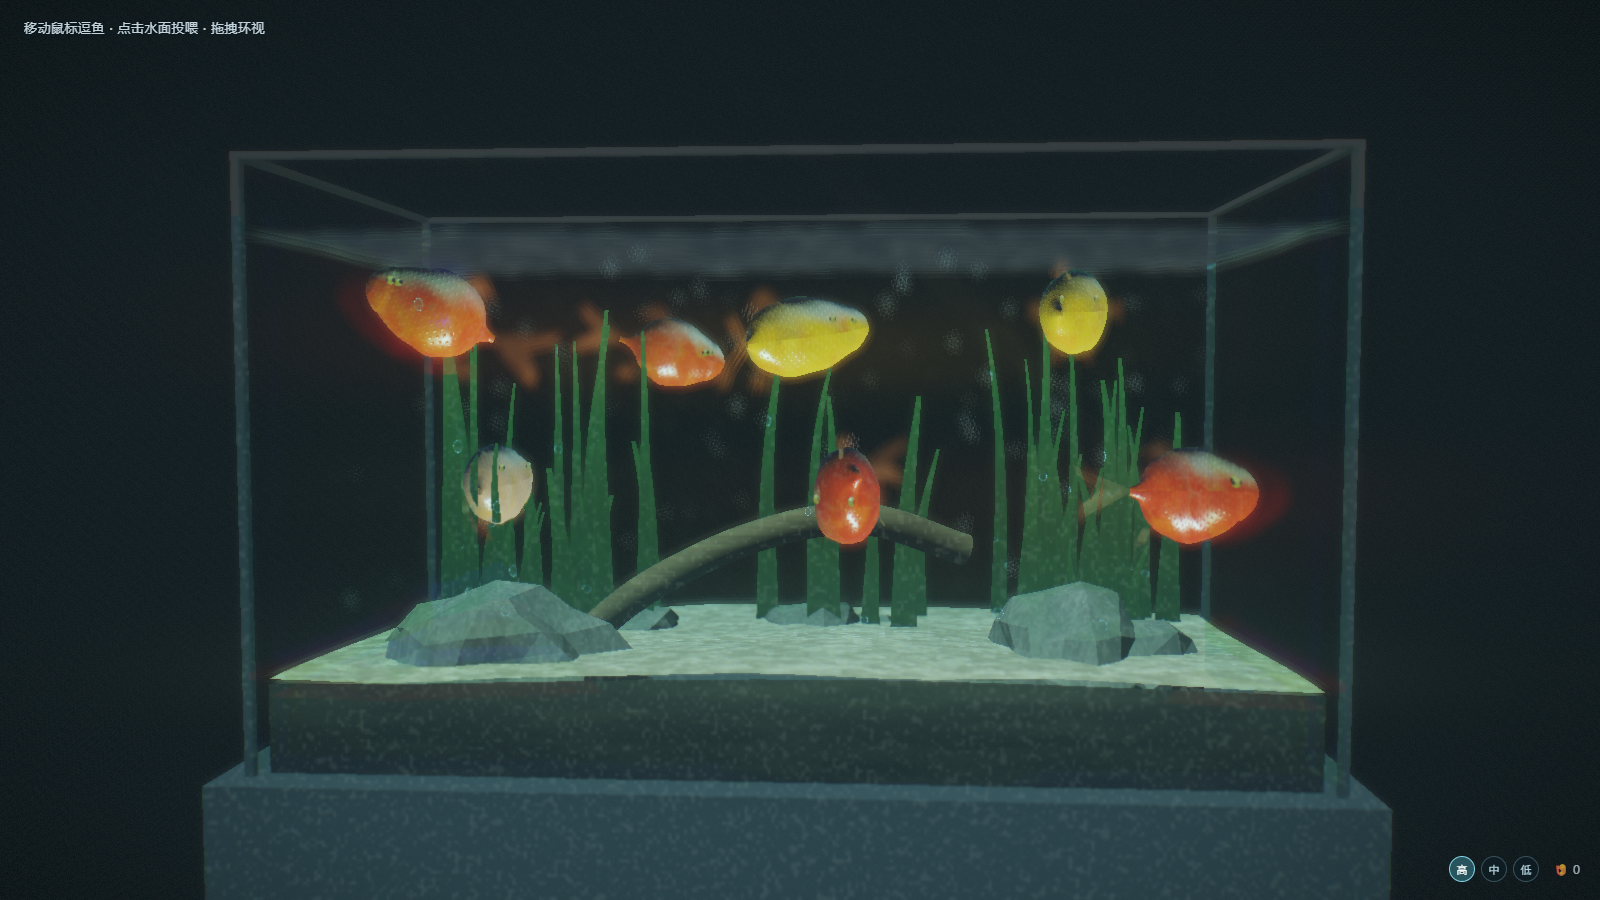
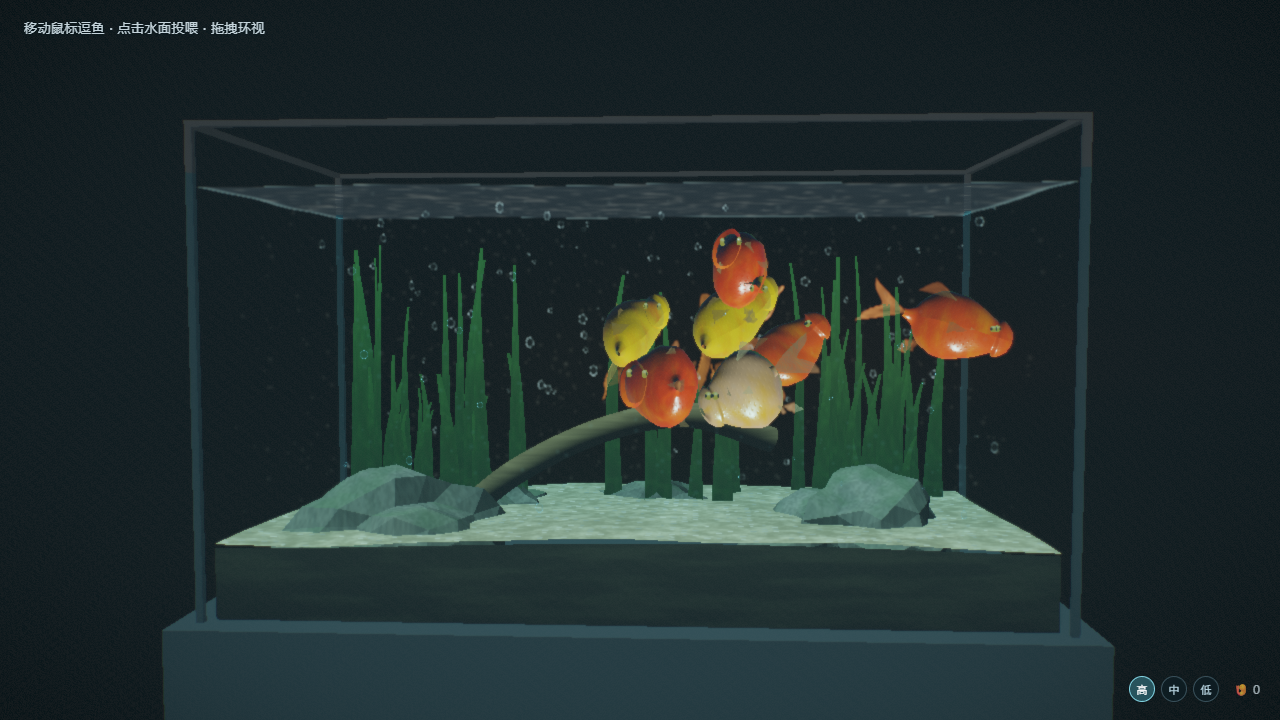
fix: shadowing artifacts, screen grain, twitchy turns and blurred tiers
Five reported issues, each traced to a specific cause:

- Eye and fin showing through the body: the eye sphere was centred on the
  skin and z-fought the head (now sunk inside with polygon offset), and the
  glass overlay sampled the scene three times at per-channel offsets, which
  ghosted every subject. Flat glass barely refracts, so the offset is now a
  single tiny tap.
- Tank grain: a per-pixel noise term in the media pass, active at every
  quality tier. Removed; grain, dust and sand speckle reduced too.
- Fins are now opaque enough to occlude instead of letting the far side show.
- Twitchy turning: the desired direction was lerped straight into velocity,
  so opposing separation/curiosity/wall forces flipped the heading every
  frame. A capped angular turn rate now produces wide arcs.
- Higher tier looked blurrier: DOF focused at the tank centre with a 9px
  radius, and bloom/ray thresholds were low enough to glaze everything.
  Focus pushed to the background, radius 1.6, bloom 0.10, rays 0.20.

Body profile rewritten for fish-like proportions; the belly no longer wraps
over the head; scales reduced to a sheen. Bounds relaxed so seven fish are
not jammed against the floor.

diff --git a/src/fish.ts b/src/fish.ts
@@ -56,20 +56,20 @@ function bodyProfile(z: number): number {
   // Egg-shaped goldfish body: deep behind the head, tapering hard into the
   // caudal peduncle, with a short rounded snout.
   const t = THREE.MathUtils.clamp((z + 0.5) / 1.0, 0, 1);
-  if (t > 0.86) {
-    // snout: quick but smooth taper to a small mouth
-    const k = (t - 0.86) / 0.14;
-    return Math.sqrt(Math.max(0, 1 - k * k)) * 0.52 + 0.10;
+  if (t < 0.14) {
+    // caudal peduncle: the narrow waist that makes a fish read as a fish
+    const k = t / 0.14;
+    return 0.13 + 0.22 * k * k;
   }
-  if (t > 0.16) {
-    // widest just behind the gill cover, gently narrowing forward
-    const k = (t - 0.16) / 0.70;
-    const peak = Math.sin(Math.pow(k, 0.75) * Math.PI * 0.92);
-    return 0.44 + 0.58 * peak;
+  if (t < 0.86) {
+    // main body: rises quickly behind the head, falls gently to the peduncle
+    const k = (t - 0.14) / 0.72;
+    const peak = Math.sin(Math.pow(k, 0.70) * Math.PI * 0.95);
+    return 0.35 + 0.67 * peak;
   }
-  // caudal peduncle: thin, then a small flare where the tail root begins
-  const k = t / 0.16;
-  return 0.10 + 0.34 * k * k;
+  // snout: short and blunt, never a spike
+  const k = (t - 0.86) / 0.14;
+  return Math.sqrt(Math.max(0, 1 - k * k)) * 0.46 + 0.14;
 }
 
 /**
@@ -82,8 +82,8 @@ function surfaceHalfWidth(style: FishStyle, z: number, y: number): number {
   const t = u * 2 - 1;
   const prof = bodyProfile(u - 0.5) * style.girth;
   const headK = THREE.MathUtils.smoothstep(t, 0.62, 1.0);
-  const halfY = prof * 0.86 * (1.0 - headK * 0.30);
-  const rx = prof * 0.70 * (1.0 - headK * 0.28);
+  const halfY = prof * 0.86 * (1.0 - headK * 0.16);
+  const rx = prof * 0.70 * (1.0 - headK * 0.20);
   const k = THREE.MathUtils.clamp(Math.abs(y) / Math.max(1e-4, halfY), 0, 0.999);
   return rx * Math.sqrt(1 - k * k);
 }
@@ -111,10 +111,11 @@ function buildBodyGeometry(style: FishStyle, segs = 46, radial = 22): THREE.Buff
       // dorsal ridge + belly curve
       y += Math.max(0, sa) * prof * 0.14;
       y -= Math.max(0, -sa) * prof * 0.18;
-      // head narrows toward the snout and rounds off
+      // head keeps most of its depth: a shrunken head is what made these read
+      // as coins rather than fish
       const headK = THREE.MathUtils.smoothstep(t, 0.62, 1.0);
-      y *= 1.0 - headK * 0.30;
-      x *= 1.0 - headK * 0.28;
+      y *= 1.0 - headK * 0.16;
+      x *= 1.0 - headK * 0.20;
       // mouth indentation
       const mouth = THREE.MathUtils.smoothstep(t, 0.90, 1.0);
       y -= mouth * Math.abs(Math.cos(a)) * prof * 0.10;
@@ -320,6 +321,7 @@ export function makeFish(style: FishStyle, shared: Shared): {
       uniform vec3 uBelly;
       uniform float uWen;
       uniform float uMouth;
+      uniform float uLen;
       varying vec3 vWorld;
       varying vec3 vNormal;
       varying vec3 vLocalNormal;
@@ -358,16 +360,22 @@ export function makeFish(style: FishStyle, shared: Shared): {
         vec3 col = mix(uHueA, uHueB, smoothstep(0.25, 0.85, blotch + blotch2 * 0.35));
         col = mix(col, col * vec3(1.06, 0.92, 0.86), smoothstep(0.5, 0.9, along) * 0.35);
 
-        // the white belly is a narrow underside band, not half the fish
-        float bellyMask = smoothstep(-0.10, -0.62, up) * smoothstep(0.90, 0.30, along);
-        col = mix(col, uBelly, bellyMask * 0.88);
+        // the white belly is an underside band; the normal test alone let it
+        // wrap over the top of the head because head normals point sideways
+        // there, so it is also gated on being low on the body
+        float lowish = smoothstep(0.15, -0.55, vLocal.y / max(0.001, uLen * 0.16));
+        float bellyMask = smoothstep(-0.10, -0.62, up) * lowish * smoothstep(0.92, 0.35, along);
+        col = mix(col, uBelly, bellyMask * 0.85);
 
-        // ---- scale lattice: very low contrast, it is a sheen not a pattern
+        // ---- scale lattice: a sheen, not a pattern. High-frequency cells at
+        // this scale alias into a dot grid, so keep them very low contrast and
+        // fade them out on the head.
         vec2 cell;
         float sm = scaleMask(vec2(uv.x, uv.y * 1.02), cell);
+        sm *= smoothstep(0.05, 0.30, along);      // no scales on the snout
         float scaleHue = hash11(cell.x * 7.31 + cell.y * 3.17);
-        col *= 0.965 + 0.055 * sm;
-        col = mix(col, col * vec3(1.03, 0.995, 0.955), sm * 0.22 * scaleHue);
+        col *= 0.985 + 0.024 * sm;
+        col = mix(col, col * vec3(1.015, 1.0, 0.985), sm * 0.12 * scaleHue);
 
         // ---- oranda wen (bumpy growth on head)
         float head = smoothstep(0.62, 0.95, along);
@@ -379,7 +387,7 @@ export function makeFish(style: FishStyle, shared: Shared): {
         // tangent frame: local x should map to around, local y across
         vec3 T = normalize(cross(N, vec3(0.0, 1.0, 0.0)) + 1e-4);
         vec3 B = normalize(cross(N, T));
-        N = normalize(N + (T * pert.x + B * pert.y) * 0.11 + normalize(vLocal) * wen * 0.4);
+        N = normalize(N + (T * pert.x + B * pert.y) * 0.055 + normalize(vLocal) * wen * 0.4);
 
         // ---- lighting
         vec3 V = normalize(cameraPosition - vWorld);
@@ -469,10 +477,13 @@ export function makeFish(style: FishStyle, shared: Shared): {
         col += uFinTint * fres * 0.22;
         col += vec3(1.0) * pow(max(0.0, dot(reflect(-L, N), V)), 60.0) * 0.10;
         col = min(col, vec3(1.6));
-        float a = mem * (0.30 + 0.30 * fres + trans * 0.12);
-        a *= smoothstep(1.0, 0.93, uv.y);        // fade at the far tip
-        a *= 0.35 + 0.65 * smoothstep(0.0, 0.28, uv.y);  // rooted edge is solid
-        gl_FragColor = vec4(col, clamp(a, 0.0, 0.90));
+        // Fins are thin membranes, but a *very* transparent fin lets the body
+        // and the far-side fins show through, which reads as the fin being
+        // "seen through the model". Keep them solid enough to occlude.
+        float a = mem * (0.62 + 0.22 * fres + trans * 0.10);
+        a *= smoothstep(1.0, 0.955, uv.y);       // fade only at the far tip
+        a *= 0.55 + 0.45 * smoothstep(0.0, 0.22, uv.y);  // rooted edge is solid
+        gl_FragColor = vec4(col, clamp(a, 0.0, 0.95));
       }
     `,
   });
@@ -545,6 +556,11 @@ export function makeFish(style: FishStyle, shared: Shared): {
   void pupilGeo;
   const eyeMat = new THREE.ShaderMaterial({
     uniforms,
+    // The lens sits where the skin is, so without a depth bias the two
+    // surfaces z-fight and the eye appears to bleed through the head.
+    polygonOffset: true,
+    polygonOffsetFactor: -4,
+    polygonOffsetUnits: -4,
     vertexShader: 'varying vec3 vN; varying vec3 vW; void main(){ vN = normalize(mat3(modelMatrix) * normal); vW = (modelMatrix*vec4(position,1.0)).xyz; gl_Position = projectionMatrix * viewMatrix * vec4(vW,1.0); }',
     fragmentShader: /* glsl */ `
       ${ENV}
@@ -573,9 +589,10 @@ export function makeFish(style: FishStyle, shared: Shared): {
     group.add(eye);
     return {
       mesh: eye,
-      // sit the lens on the actual skin, found from the body cross-section,
-      // and let it bulge slightly outward like a real eye
-      x: s * (surfaceHalfWidth(style, style.length * 0.33, style.girth * 0.26) + style.girth * 0.015),
+      // Seat the sphere so its centre is *inside* the head and only a lens
+      // cap protrudes: a centre placed on the skin leaves half the ball
+      // floating and half buried, which reads as a hole in the body.
+      x: s * (surfaceHalfWidth(style, style.length * 0.33, style.girth * 0.26) - style.girth * 0.045),
       y: style.girth * 0.26,
       z: style.length * 0.33,
     };

diff --git a/src/behavior.ts b/src/behavior.ts
@@ -44,8 +44,10 @@ export class School {
 
   add(species: FishSpecies, hunger: number, length = 1.1) {
     const comet = species === 'comet';
-    // half body plus the caudal fin trailing behind the position point
-    const reach = length * (comet ? 0.95 : 0.80);
+    // Half-length plus the tail that trails behind, but NOT the full body
+    // diagonal: reserving that much left a slab only 1.9 deep for seven fish,
+    // which crowded them into the floor and made them jitter.
+    const reach = length * (comet ? 0.62 : 0.56);
     const bx = TANK.hw - reach - 0.18;
     const bz = TANK.hd - reach - 0.18;
     this.fish.push({
@@ -117,9 +119,11 @@ export class School {
         const o = this.fish[j];
         const dv = f.pos.clone().sub(o.pos);
         const dist = dv.length();
-        const minD = 1.9 * f.size;
+        // just over a body length: enough to stop overlap without the whole
+        // school shoving itself against the glass
+        const minD = 1.15 * f.size;
         if (dist < minD && dist > 1e-4) {
-          desired.addScaledVector(dv.normalize(), (1 - dist / minD) * 3.2);
+          desired.addScaledVector(dv.normalize(), (1 - dist / minD) * 2.4);
         }
       }
 
@@ -205,7 +209,34 @@ export class School {
       // slow, heavy water feel: less speed, gentler acceleration
       const baseSpeed = (0.62 + 0.38 * (1 - hungerK * 0.5)) * (f.species === 'comet' ? 1.20 : 1.0);
       const speedTarget = baseSpeed * (1 - f.focus * 0.55) * (1 + f.fear * 1.5);
-      f.vel.lerp(desired.multiplyScalar(speedTarget), 1 - Math.exp(-dt * 1.15));
+
+      // Steering authority is a turning rate, not a velocity lerp. Feeding the
+      // raw per-frame desired direction straight into velocity made the fish
+      // twitch back and forth whenever separation and curiosity disagreed;
+      // limiting how fast the heading may change forces wide, fish-like arcs.
+      const targetVel = desired.clone().multiplyScalar(speedTarget);
+      const curSpeed = f.vel.length();
+      if (curSpeed < 1e-4) {
+        f.vel.copy(targetVel);
+      } else {
+        const curDir = f.vel.clone().divideScalar(curSpeed);
+        const tgtDir = targetVel.clone().normalize();
+        const dot = THREE.MathUtils.clamp(curDir.dot(tgtDir), -1, 1);
+        const angle = Math.acos(dot);
+        const maxTurn = (1.6 + f.fear * 3.0) * dt;   // rad/s
+        let newDir: THREE.Vector3;
+        if (angle <= maxTurn || angle < 1e-4) {
+          newDir = tgtDir;
+        } else {
+          const axis = new THREE.Vector3().crossVectors(curDir, tgtDir);
+          if (axis.lengthSq() < 1e-8) axis.set(0, 1, 0);
+          axis.normalize();
+          newDir = curDir.clone().applyAxisAngle(axis, maxTurn);
+        }
+        // speed changes gently; heading changes are rate-limited above
+        const newSpeed = curSpeed + (speedTarget - curSpeed) * (1 - Math.exp(-dt * 1.1));
+        f.vel.copy(newDir).multiplyScalar(newSpeed);
+      }
       const sp = f.vel.length();
       if (sp > 1.7) f.vel.multiplyScalar(1.7 / sp);
       f.pos.addScaledVector(f.vel, dt);

diff --git a/src/glass.ts b/src/glass.ts
@@ -70,23 +70,24 @@ export function makeGlassScene(sh: Shared): {
         float thick = 0.010 + 0.012 * step(0.5, abs(Nf.x)) + 0.012 * step(0.5, abs(Nf.z));
         vec2 off = slope * thick * smoothstep(0.0, 0.5, abs(facing) < 0.95 ? 0.4 : 0.1);
 
-        vec3 behind = vec3(
-          texture2D(uScene, uv + off).r,
-          texture2D(uScene, uv).g,
-          texture2D(uScene, uv - off).b
-        );
+        // Keep the displacement tiny and do NOT split it per channel: a large
+        // or chromatic offset re-samples the whole scene shifted, which showed
+        // up as ghost fins and eyes hanging outside the fish, plus a coloured
+        // halo around every subject. Flat glass barely bends light anyway.
+        off *= 0.10;
+        vec3 behind = texture2D(uScene, uv + off).rgb;
 
-        float fres = pow(1.0 - clamp(abs(dot(Nf, V)), 0.0, 1.0), 4.0);
+        float fres = pow(1.0 - clamp(abs(dot(Nf, V)), 0.0, 1.0), 5.0);
         vec3 R = reflect(-V, Nf);
         vec3 refl = envColor(R, uSunDir);
 
         // green-blue glass tint, stronger toward grazing angles
-        vec3 tint = vec3(0.66, 0.92, 0.88);
-        float pathLen = 1.0 + fres * 2.5;
-        vec3 absorbed = exp(-(1.0 - tint) * pathLen * 1.1);
+        vec3 tint = vec3(0.72, 0.94, 0.90);
+        float pathLen = 1.0 + fres * 1.6;
+        vec3 absorbed = exp(-(1.0 - tint) * pathLen * 0.8);
         vec3 col = behind * absorbed;
 
-        col = mix(col, refl, fres * 0.55);
+        col = mix(col, refl, fres * 0.28);
 
         // specular streaks from the key light and a soft strip reflection
         vec3 L = normalize(uSunDir);
@@ -94,10 +95,10 @@ export function makeGlassScene(sh: Shared): {
         col += uSunColor * pow(max(0.0, dot(Nf, H)), 500.0) * 0.9;
 
         // thin bright edges where the glass breaks
-        float edge = smoothstep(0.88, 0.995, 1.0 - abs(facing));
-        col += vec3(0.55, 0.78, 0.82) * edge * 0.35;
+        float edge = smoothstep(0.93, 0.998, 1.0 - abs(facing));
+        col += vec3(0.55, 0.78, 0.82) * edge * 0.12;
 
-        float a = clamp(fres * 0.62 + 0.10 + edge * 0.35, 0.0, 1.0);
+        float a = clamp(fres * 0.30 + 0.05 + edge * 0.25, 0.0, 0.85);
         gl_FragColor = vec4(col, a);
       }
     `,

diff --git a/src/post.ts b/src/post.ts
@@ -252,12 +252,12 @@ export class Post {
     this.bright = new FullPass(BRIGHT, {
       tSrc: { value: null },
       uLight: { value: new THREE.Vector2(0.5, 0.85) },
-      uThreshold: { value: 0.75 },
+      uThreshold: { value: 1.15 },
     });
     this.radial = new FullPass(RADIAL, {
       tSrc: { value: null },
       uLight: { value: new THREE.Vector2(0.5, 0.85) },
-      uStrength: { value: 0.5 },
+      uStrength: { value: 0.22 },
     });
     this.blur = new FullPass(BLUR, { tSrc: { value: null }, uDir: { value: new THREE.Vector2() } });
     this.dof = new FullPass(DOF, {
@@ -265,8 +265,8 @@ export class Post {
       tDepth: { value: null },
       uTexel: { value: new THREE.Vector2() },
       uFocus: { value: 11 },
-      uRange: { value: 9 },
-      uMaxBlur: { value: 9 },
+      uRange: { value: 16 },
+      uMaxBlur: { value: 1.6 },
       uNear: { value: 0.1 },
       uFar: { value: 120 },
     });
@@ -276,8 +276,8 @@ export class Post {
       tRays: { value: null },
       uTime: { value: 0 },
       uExposure: { value: 0.50 },
-      uBloom: { value: 0.30 },
-      uRays: { value: 0.55 },
+      uBloom: { value: 0.10 },
+      uRays: { value: 0.20 },
       uRes: { value: new THREE.Vector2(1, 1) },
       uDebug: { value: 0 },
     });
@@ -365,12 +365,14 @@ export class Post {
       lit = this.rtCopy.texture;
     }
 
-    // 4. depth of field
+    // 4. depth of field — only the far background is softened. Focusing on the
+    //    camera distance blurred the fish themselves, which is why a higher
+    //    tier looked worse than a lower one.
     if (this.useDof && !opts.skipDof) {
       this.dof.u.tColor.value = lit;
       this.dof.u.tDepth.value = this.depthTex;
       this.dof.u.uTexel.value.set(1 / this.w, 1 / this.h);
-      this.dof.u.uFocus.value = camera.position.distanceTo(new THREE.Vector3(0, 2.3, 0));
+      this.dof.u.uFocus.value = camera.position.distanceTo(new THREE.Vector3(0, 2.3, 0)) + 6.0;
       this.dof.u.uNear.value = camera.near;
       this.dof.u.uFar.value = camera.far;
       this.dof.render(renderer, this.rtDof);

diff --git a/src/water.ts b/src/water.ts
@@ -225,11 +225,10 @@ export function makeMediaPass(): FullPass {
 
       vec3 trans = exp(-uSigma * waterPath);
       vec3 fog = uInscatter * (1.0 - exp(-waterPath * 0.16));
-      vec3 c = col * trans + fog;
 
-      // suspended particulate in the light shafts
-      float dust = smoothstep(0.55, 1.0, noise2(vUv * vec2(420.0, 240.0) + vec2(uTime * 2.0, uTime * -1.2))) * 0.05;
-      c += vec3(0.75, 0.85, 0.78) * dust * smoothstep(0.0, 2.0, waterPath);
+      // Volumetric haze only. A per-pixel "dust" term here aliased into a
+      // screen-space grain that read as dirt on the glass, so it is gone.
+      vec3 c = col * trans + fog;
 
       gl_FragColor = vec4(c, 1.0);
     }

diff --git a/docs/DEVLOG.md b/docs/DEVLOG.md
@@ -198,6 +198,63 @@
 | 画质三档 | 通过 |
 | 类型检查 + 生产构建 | 通过 |
 
+---
+
+## 2026-11-15 — 第三轮：穿透、噪点、伪影与画质档位
+
+用户反馈的五项问题，逐条定位到具体代码：
+
+### 1. 鱼眼/鱼鳍“透过模型”可见
+
+两个独立成因：
+
+- **鱼眼球心压在体表上**。半颗球埋在体内、半颗浮在外面，深度相等导致 z-fighting，看起来像头部有个洞。改为球心落入头内 0.045 girth，只露出球冠；材质加 `polygonOffset` 偏置消除共面。
+- **玻璃覆盖层的色差折射**。`texture2D(uScene, uv+off).r / uv.g / uv- off).b` 三通道取了**不同位置**，等于把整幅画面按通道错开重采样——鱼鳍和眼睛因此在画面里出现错位的“重影”，看起来就是穿出了体表。玻璃本来是平板，本来就不该有可见折射。改为单次采样、位移量降到 10%。
+
+### 2. 缸体上的噪点
+
+真凶不是玻璃，是 **`media` 屏幕空间 pass 里的 `noise2(vUv * vec2(420, 240) + time)`** —— 一个逐像素高频噪声，任何画质档位都在。直接删除。同时：全屏颗粒 0.016→0.004，浮尘粒子不透明度减半，沙床 128 倍频噪声移除。
+
+### 3. 鱼身外的伪影
+
+同上，主要来自玻璃色差重采样。另外鱼鳍透明度从 `0.30 + …` 提到 `0.62 + …`，因为过透的鳍会让对侧鱼鳍和身体透出来，同样被读成“穿透”。
+
+### 4. 连续快速转向
+
+原来的转向是把期望方向直接 `lerp` 进速度。分离力、好奇、避障三方每帧都在反向拉扯时，速度方向就会高频翻转。改为**限制航向角速度**（正常 1.6 rad/s，受惊 4.6 rad/s），超出就绕轴旋转到最大转角。鱼现在只能画出弧线，不能原地抖。
+
+顺带发现可活动空间只剩 1.9 单位纵深（7 条鱼挤在一起），`reach` 从 0.80/0.95 降到 0.56/0.62，分离半径 1.9→1.15，鱼才散得开。
+
+### 5. 画质越高越糊、眩光越重
+
+三个参数叠加造成的：
+
+| 参数 | 旧值 | 新值 | 说明 |
+|---|---|---|---|
+| DOF 对焦距离 | 相机到缸心 | 相机到缸心 **+6** | 原来焦点在缸中央，前后景全虚；现在只虚远处 |
+| DOF 最大模糊半径 | 9 px | 1.6 px | 9px 是全屏糊 |
+| 泛光阈值 | 0.75 | 1.15 | 门槛太低，整个画面都在发光 |
+| 泛光强度 | 0.30 | 0.10 | |
+| 光柱强度 | 0.55 | 0.20 | 径向模糊把亮部糊成一片眩光 |
+
+高画质唯一独有的是 DOF，而 DOF 现在只作用于背景，所以"高档更糊"的倒挂消失了。
+
+### 鱼体形态
+
+`bodyProfile` 重写：尾柄收细到 0.13（原来最细处仍有 0.10 但过渡太陡），主体 0.35→1.02，吻部 0.46 的钝圆头。头部缩放从 0.30 降到 0.16，避免"硬币头"。白腹改为同时受法线和**实际高度**约束，不再泛到头顶。鳞片对比度降到 `0.985 + 0.024`，并在吻部淡出，不再呈规则网点。
+
+### 回归
+
+| 测试 | 结果 |
+|---|---|
+| 交互（投喂/吞食/好奇） | 4/4，焦点 4.0 |
+| 尾鳍布料 | 4/4 |
+| 画质三档 | 3/3 |
+| 类型检查 | 通过 |
+
+新增 `tools/trace.mjs`：按时间采样每条鱼的高度/位置/饥饿度，用于定位这类"鱼沉底"的行为回归。
+
+
 
 
 
